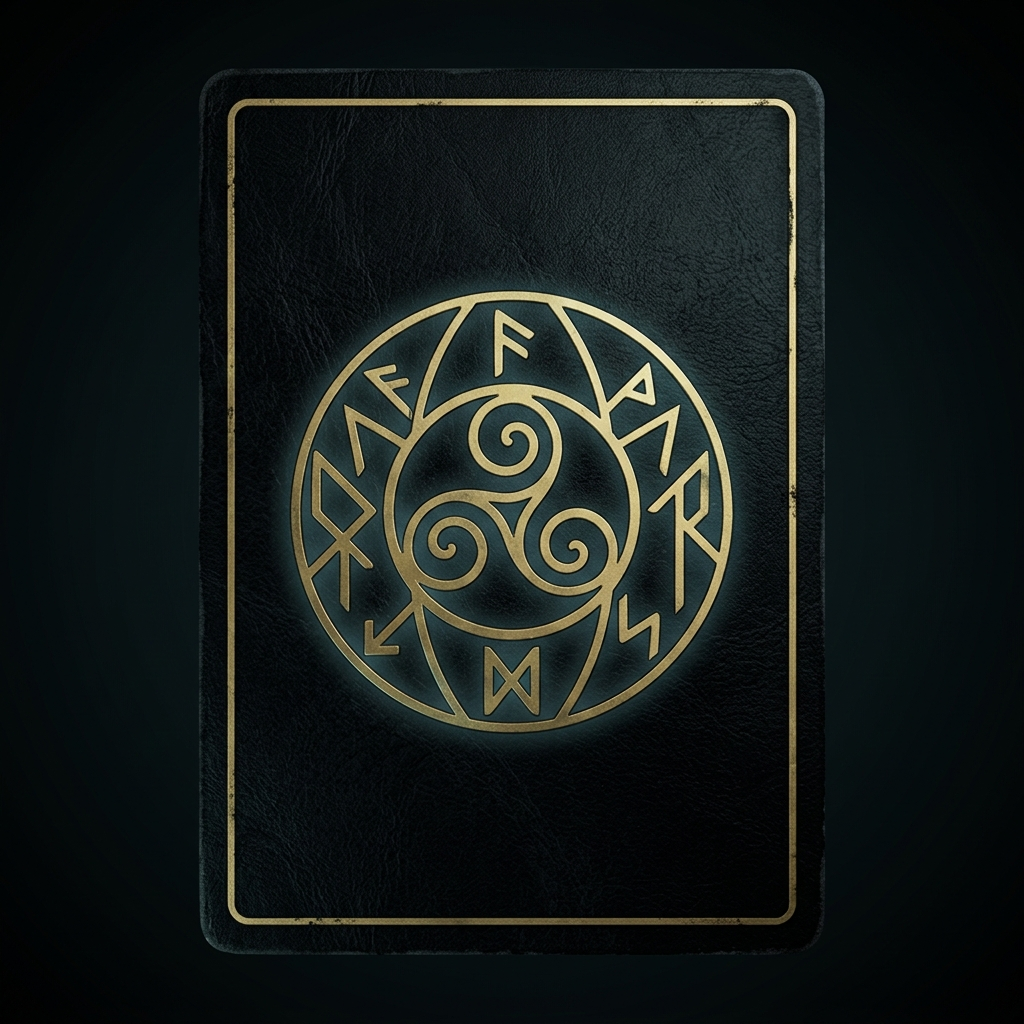
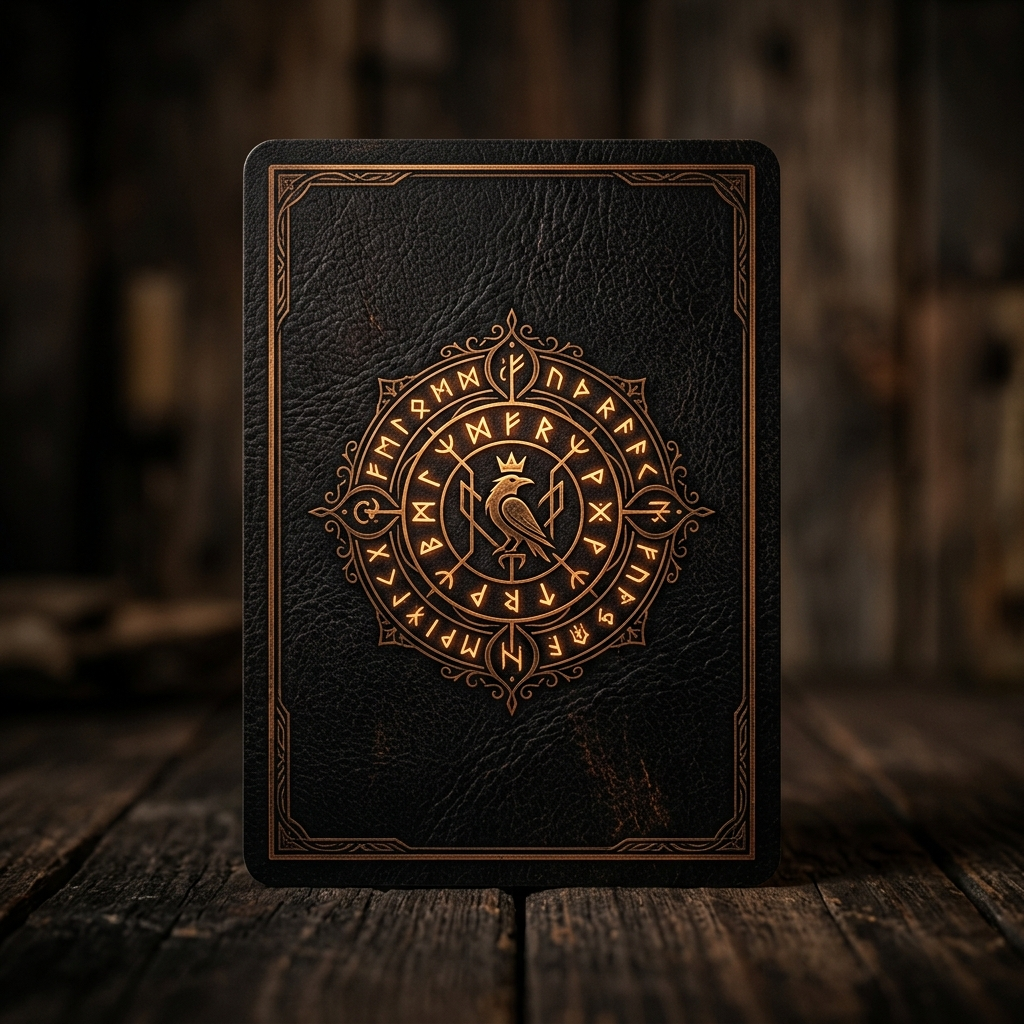
Replace cyan blue color on card back with elegant warm gold and bronze fantasy palette

diff --git a/src/components/Card/Card.css b/src/components/Card/Card.css
@@ -44,10 +44,10 @@
   overflow: hidden;
 }
 
-/* Card Back (Simple Dark Fantasy — Elegant & Dark) */
+/* Card Back (Simple Dark Fantasy — Warm Gold Theme) */
 .card-back {
   background: url('/assets/card-back.png') center/cover no-repeat;
-  border: 1.5px solid rgba(0, 240, 255, 0.4);
+  border: 1.5px solid rgba(212, 175, 55, 0.5);
   box-shadow: 0 4px 14px rgba(0, 0, 0, 0.8), inset 0 0 10px rgba(0, 0, 0, 0.5);
   image-rendering: -webkit-optimize-contrast;
   image-rendering: crisp-edges;
@@ -55,14 +55,14 @@
 
 /* --- X-RAY HOLOGRAPHIC SCAN EFFECT (KHUSUS BUFF PENERIMA) --- */
 .card-container.xray-active .card-back {
-  border-color: #00f0ff;
-  box-shadow: 0 0 24px rgba(0, 240, 255, 0.9);
+  border-color: #ffd700;
+  box-shadow: 0 0 24px rgba(255, 215, 0, 0.9);
 }
 
 .xray-overlay {
   position: absolute;
   inset: 0;
-  background: rgba(6, 14, 32, 0.94);
+  background: rgba(18, 14, 8, 0.94);
   border-radius: 8px;
   display: flex;
   flex-direction: column;
@@ -80,8 +80,8 @@
   left: 0;
   width: 100%;
   height: 4px;
-  background: linear-gradient(90deg, transparent, #00f0ff, #ff00ea, transparent);
-  box-shadow: 0 0 12px #00f0ff;
+  background: linear-gradient(90deg, transparent, #ffd700, #f97316, transparent);
+  box-shadow: 0 0 12px #ffd700;
   animation: xrayBeamScan 1.2s infinite ease-in-out;
 }
 
@@ -92,13 +92,13 @@
 }
 
 @keyframes xrayPulse {
-  0% { box-shadow: inset 0 0 10px rgba(0, 240, 255, 0.4); }
-  100% { box-shadow: inset 0 0 22px rgba(0, 240, 255, 0.8); }
+  0% { box-shadow: inset 0 0 10px rgba(255, 215, 0, 0.4); }
+  100% { box-shadow: inset 0 0 22px rgba(255, 215, 0, 0.8); }
 }
 
 .xray-badge {
-  background: rgba(0, 240, 255, 0.2);
-  border: 1px solid rgba(0, 240, 255, 0.6);
+  background: rgba(255, 215, 0, 0.2);
+  border: 1px solid rgba(255, 215, 0, 0.6);
   padding: 1px 6px;
   border-radius: 10px;
 }
@@ -106,9 +106,9 @@
 .xray-eye {
   font-size: 0.6rem;
   font-weight: 900;
-  color: #00f0ff;
+  color: #ffd700;
   letter-spacing: 0.5px;
-  text-shadow: 0 0 6px #00f0ff;
+  text-shadow: 0 0 6px #ffd700;
 }
 
 .xray-card-info {
@@ -148,7 +148,7 @@
 
 .card-container:hover:not(.flipped):not(.matched) .card-inner {
   transform: translateY(-4px) scale(1.02);
-  box-shadow: 0 0 18px rgba(0, 240, 255, 0.5);
+  box-shadow: 0 0 18px rgba(212, 175, 55, 0.5);
 }
 
 /* Card Front */